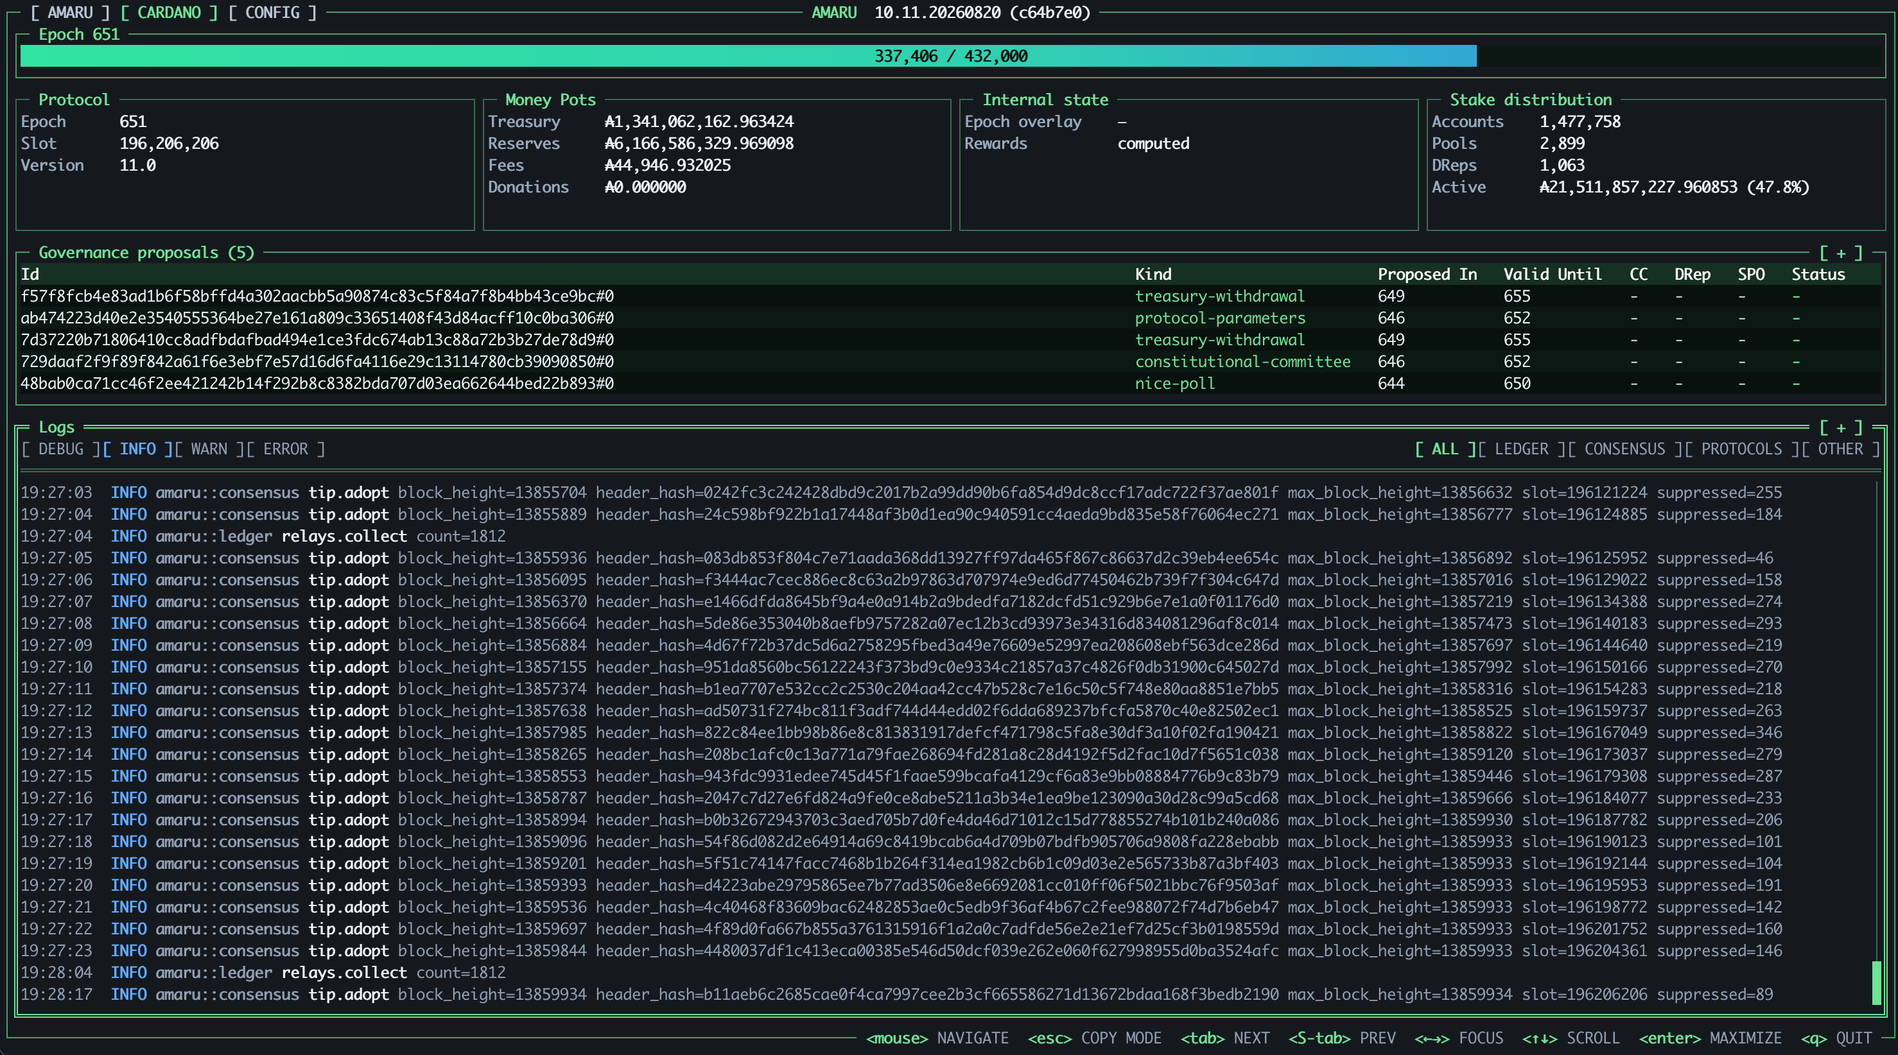
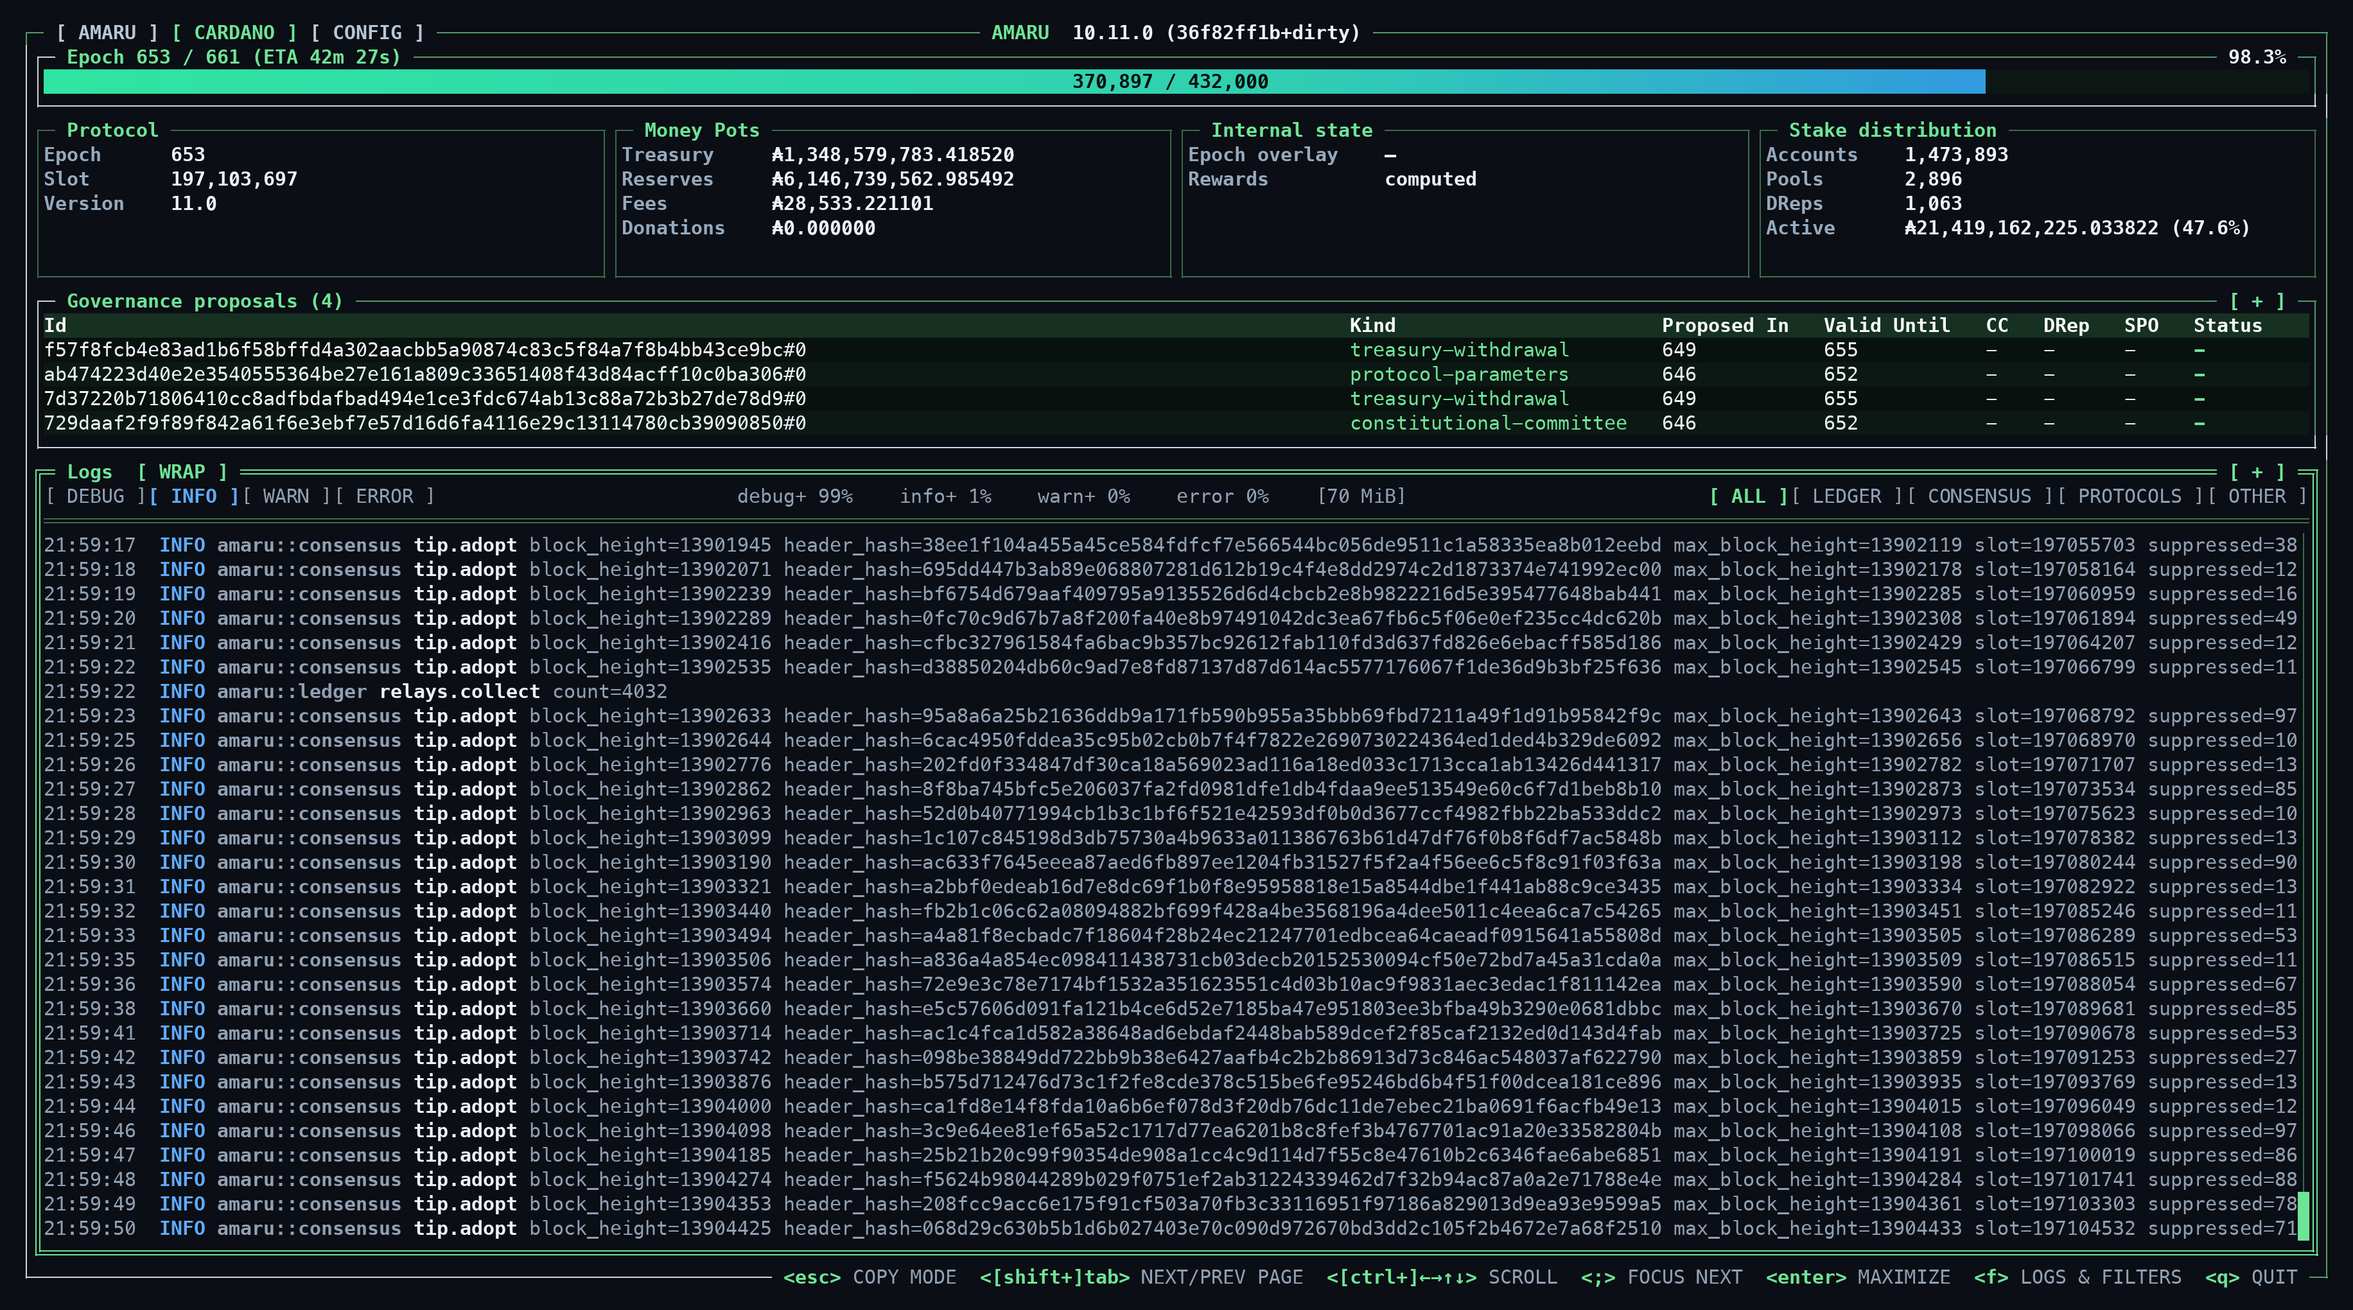
feat(docs): update tui docs
skip-changelog

Changed region(s): [[0.0, 0.0, 1.0, 0.9927], [0.5913, 0.1241, 0.6225, 0.1551]]

diff --git a/docs/user-guide/02-amaru-tui.md b/docs/user-guide/02-amaru-tui.md
@@ -5,81 +5,306 @@ sidebar_label: "The Amaru TUI"
 description: A tour of the Amaru node's embedded terminal dashboard.
 ---
 
-When using `amaru node run`, it opens an embedded terminal dashboard live in your shell. It's the quickest way to see whether the node is syncing, how it's performing, and what it's doing right now.
+`amaru node run` opens an embeded terminal dashboard. It shows important information about your node, such as sync progress, resource usage, connected peers, and logs.
 
-## Tabs
+## When the TUI runs
 
-The top bar switches between three views: **AMARU**, **CARDANO**, and **CONFIG**, described below.  
-The node's version and commit hash (e.g. `10.11.20260807 (493bffb)`) are always shown top-center.
+The dashboard starts by default when Amaru runs in an interactive terminal on Linux or macOS. It stays off when any of these hold:
 
-## AMARU tab
+- Flag `--tui-off` (`--no-tui`) is used
+- Environment variable `AMARU_TUI_OFF` is set to `true` 
+- JSON traces are enabled
+- Environment variable `TERM` is set to `dumb`
 
-Shown by default when the TUI opens: node-process health, networking, and consensus; sync progress, resource usage, peers, and logs.
+When the TUI is disabled, logs go to standard output. That mode is recommended when running with system or Docker.
 
-![Amaru Syncing_TUI](img/Amaru_Syncing_TUI.png)
-*Amaru TUI Syncing on Preprod*
+| Flag | Environment variable | Default | Purpose |
+|---|---|---|---|
+| `--tui-off` | `AMARU_TUI_OFF` | `false` | Disable the dashboard. |
+| `--tui-log-retention` | `AMARU_TUI_LOG_RETENTION` | `100MiB` | Memory the log pane may use. See [Log retention](#log-retention). |
+| | `AMARU_TUI_ALIASES` | none | Remap keys. See [Customizing keys](#customizing-keys). |
 
-### Sync progress
+## Startup
 
-While syncing, the top bar tracks progress through the current epoch: epoch number (307 / 308), ETA to the end of sync (2m56s), slots processed within the epoch (86,338 / 432,000), and overall sync percentage (99.6%).  
-When the sync is over the ETA and Percentage will disappear.
+Every time it starts, Amaru loads the stake distributions for the last two epochs from disk before it can follow the chain. The dashboard appears when loading finishes.
 
-![Amaru_Mainnet TUI](img/Amaru_Mainnet_TUI.png)
-*Amaru TUI Running on Mainnet*
+![Amaru TUI startup](img/Amaru_Splash_TUI.png)
 
-### Resource gauges
+## Layout
 
-Live gauges for **Memory**, **RSS**, **CPU**, **Disk Read**, and **Disk Write**, each with a percentage relative to a reference ceiling.  
-**Memory** is the amount allocated to the process, while **RSS** (Resident Set Size) is the portion of that actually resident in RAM, the number to watch if you're worried about the host running out of memory.
+The page tabs `[Amaru] [Cardano] [Config]` sit in the top-left corner of the frame. Click a tab, or press `Tab`/`Shift+Tab` to cycle through the pages.
+
+The center shows `AMARU` followed by the ndoe version and commit. For example,`10.11.20260807 (493bffb)`.
+
+The bottom-right corner lists the keys that work right now, written as `<key> ACTION`. The list changes with the mode. If you forget a key, look there.
+
+The Amaru and Cardano pages stack three things. The epoch progress bar is at the top, the page's panels are in middle, and the log pane fills the rest. The Config page gives the whole screen to its tables.
+
+### Epoch bar
+
+Once the node has a tip, a bar across the top tracks the current epoch in slots, for example `86,338 / 432,000`.
+
+While Amaru catches up, the title reads `Epoch 307 / 308 (ETA 2m 56s)`. The first number is the epoch your local node has reached, and the second is the network's current epoch. The ETA is an estimate of how lon the sync has left. Overall sync progress would appear on the right.
+
+Once Amaru reaches the tip, the title drops to just the epoch number, and the percentage disappears.
+
+### Focus and maximizing
+
+One panel has focus at a time. The focused panel has a heavier border, and the arrow keys scroll within it. Press `;` to move focus to the next panel, or click on a specific panel to focus it.
+
+Some panels can expand to the full screen. Press `Enter` on the focused panel, or click the `[+]` in its top-right corner to toggle full screen mode.
+
+## Amaru page
+
+This page is about the node process itself.
+
+![Amaru TUI syncing](img/Amaru_Syncing_TUI.png)
+*Syncing on Mainnet*
+
+### Resources
+
+The top row has five gauges.
+
+| Gauge | Shows | Percentage relative to |
+|---|---|---|
+| Memory | Memory allocated by the process | Total host memory |
+| RSS | Resident set size, the part of that memory currently in RAM | Total host memory |
+| CPU | Process CPU usage | 100% |
+| Disk Read | Read rate in KiB/s or MiB/s | All reads on the host |
+| Disk Write | Write rate | All writes on the host |
+
+### Node, Throughput, Local Tip, Chain quality
+
+
+| Card | Field | Meaning |
+|---|---|---|
+| Node | Network | The network the node joined, such as `mainnet`, `preprod` or `preview`. |
+| | Platform | OS and architecture. |
+| | PID | Process ID. |
+| | Uptime | Time since the TUI started. |
+| Throughput | Blocks, Txs | Blocks and transactions processed recently. |
+| | Blocks/s, Tx/s | Smoothed processing rate. |
+| Local Tip | Hash | First 12 characters of the tip block's hash. |
+| | Slot | Slot of the local tip. Reads `slot / target` when there's a sync target. |
+| | Height | Block height of the local tip. |
+| | Adopted | Time since the node last adopted a block. |
+| Chain quality | Chain Density | Observed block density as a share of the expected rate. |
+| | Chain Growth | Not implemented yet. Always shows `-`. |
+| | Rollback depth | Average length of recent rollbacks, in blocks. |
+| | Rollback freq. | How often rollbacks happened lately. |
 
 ### Peers
 
-One row per connected peer: connection **Dir**ection (inbound/outbound), peer address, **Duplex** (whether the connection carries traffic in both directions at once, rather than one-way), **RTT** (round-trip latency to the peer), and per-stage latency.  
-(see [openBlockPerf](https://developers.cardano.org/docs/operators/monitoring/monitoring-openblockperf/)) :  
-- **Observe** : Time until a relay node first hears about the new block header.
-- **Fetch** : Time while the relay node requests the block body from peers.  
-- **Sync** : Time until the block body download completes.
-- **Adopt** : Time until the local node validates and adopts the block.
+![Amaru TUI peers](img/Amaru_Mainnet_Peers_TUI.png)
 
-The `[ + ]` in the top-right lets you expand the panel to see all connected peers.  
-If a peer shows a red dot instead of a green one, it means it has not responded for some time and will soon be evicted.
+The panel title counts connections, for example `Peers (8+2 up / 5+1 dn)`. The `up` side counts peers we use as upstreams. The `dn` side counts peers that use us as their upstream. In each pair, the first number is connections carrying block diffusion and the muted `+N` is connections kept only for maintenance.
 
-![Amaru_Mainnet_Peers TUI](img/Amaru_Mainnet_Peers_TUI.png)
+Each row is one peer.
 
+| Column | Meaning |
+|---|---|
+| up | How we use this peer. `●` means diffusion, `○` maintenance, `-` unused. |
+| dn | How this peer uses us, with the same symbols. |
+| in/out | `in` if the peer dialled us and `out` if we dialled it. A trailing `+` marks a full-duplex connection, which both sides use at once. |
+| Peer | Socket address. A peer resolved from a bootstrap host name or SRV record shows that name in parentheses. |
+| ChainSync | Height of the latest header this peer sent, minus our adopted height. Positive means the peer is ahead. |
+| Adopted | Height of the tip this peer advertises, minus our adopted height. |
+| RTT | Last measured round-trip time. |
+| Score | Points for announcing new headers early. Faster upstreams score higher. |
+| Observe | Average time from slot start until this peer delivered the header. Blank while catching up, since old blocks have no meaningful slot start. |
+| Select | Average wait between accepting the header and requesting its body. |
+| Fetch | Average time to download the block body from this peer. |
+| Adopt | Average time this node took to validate and adopt the block. |
+| ≤1s, ≤3s, ≤5s | Share of recent live blocks whose body arrived within 1, 3 or 5 seconds of slot start. |
+
+Observe, Fetch and Adopt use the same stages as [openBlockPerf](https://developers.cardano.org/docs/operators/monitoring/monitoring-openblockperf/). Select is Amaru's own.
 
 ### Mempool
 
-Pending transaction count (**Txs**) and current **Occupancy**: how much of the mempool's size budget (in KiB) is filled with transactions waiting to be included in an upcoming block.
+Txs counts pending transactions. Occupancy shows how much of the mempool's size budget they use, in KiB, for example `12 / 8,192 KiB`.
 
-### Logs
+## Cardano page
 
-A live, filterable log tail. Filter by level (**DEBUG**, **INFO**, **WARN**, **ERROR**) and by component (**ALL**, **LEDGER**, **CONSENSUS**, **PROTOCOLS**, **OTHER**) using the toggles above the log pane.
+This page shows ledger state as Amaru sees it.
 
-## CARDANO tab
+![Amaru TUI Cardano page](img/Amaru_Cardano_TUI.png)
 
-Shows on-chain governance state, reward pots, stake distribution, and governance proposals in flight.
+| Card | Field | Meaning |
+|---|---|---|
+| Protocol | Epoch, Slot | Position of the local tip. |
+| | Version | Protocol version in force. |
+| Money Pots | Treasury, Reserves | Current balances in ADA. |
+| | Fees | Fees collected so far this epoch. |
+| | Donations | Treasury donations collected so far this epoch. |
+| Internal state | Epoch overlay | `✓` when the node holds state for the epoch in progress. |
+| | Rewards | `computed` once rewards for the next epoch boundary are ready, `not ready` before that. |
+| Stake distribution | Accounts, Pools, DReps | Size of the latest stake snapshot. |
+| | Active | Active stake, and its share of the maximum ADA supply. |
 
-![Amaru TUI Cardano tab](img/Amaru_Cardano_TUI.png)
+### Governance proposals
 
-For the time being, the view is purely informative; other elements could be added in the future.
+One row per proposal the ledger tracks.
 
-## CONFIG tab
+| Column | Meaning |
+|---|---|
+| Id | Proposal ID, made of the transaction ID and index. |
+| Kind | Action type, for example `treasury-withdrawal` or `protocol-parameters`. |
+| Proposed In | Epoch the proposal was submitted. |
+| Valid Until | Last epoch it can be ratified. |
+| CC, DRep, SPO | Whether that body currently approves it. Shows `yes` or `no`, or `-` when the body has no say or there's no result yet. |
+| Status | Where the proposal stands. |
 
-The full list of CLI flags, their matching `AMARU_*` environment variables, and their current value (see [Configuring the node](05-amaru-advanced-installation.md#3-configuring-the-node)).  
-We also see protocol parameters and network global parameters used by Amaru.
+## Config page
 
-![Amaru TUI Config tab](img/Amuru_Config_TUI.png)
+![Amaru TUI Config page](img/Amaru_Config_TUI.png)
 
-## Keybindings
+This page lists every option the node started with. Each row has the CLI flag, its `AMARU_*` environment variable and the value in effect. [Configuring the node](05-amaru-advanced-installation.md#3-configuring-the-node) explains what each option does.
 
-These apply across all three tabs:
+Below the options are the protocol parameters and network-wide constants Amaru is using.
 
-| Key | Action                                                                |
-|-----|-----------------------------------------------------------------------|
-| Mouse | Navigate between panels                                               |
-| `Esc` | Enter copy mode. On log pages, click a line then click another to mark a time range (a later click moves the nearer end; drag also works); `e` writes the currently visible lines in that range (or every visible line if nothing is selected) to a file in the working directory. On the Config page, copy mode still allows native text selection. |
-| `Tab` / `Shift+Tab` | Focus next / previous panel                                           |
-| `←` `→` | Move focus within a panel                                             |
-| `↑` `↓` | Scroll the focused panel                                              |
-| `Enter` | Maximize the focused panel                                            |
-| `q` | Quit – note: no confirmation prompt.                                  |
+## Logs
+
+The log pane appears on the Amaru and Cardano pages. New lines arrive at the bottom. Scroll up to read older ones, and scroll back down to follow new lines again.
+
+### Level and component
+
+The top row of the log pane has two sets of toggles; one to filter log levels, and one to filter component logs.
+
+The toggles on the left are `debug`, `info`, `warn` and `error`. Each shows that level and everything more severe. The component toggles on the right are `all`, `ledger`, `consensus`, `protocols` and `other`.
+
+### Filter, highlight and jump
+
+Press `f` to open the log menu, then pick a command.
+
+| Key | Action |
+|---|---|
+| `f` | Show only lines matching a regular expression. |
+| `h` | Highlight matching lines and keep the rest visible. |
+| `t` | Jump to a timestamp. Accepts `HH:MM`, `HH:MM:SS`, `YYYY-MM-DD` and `YYYY-MM-DD HH:MM[:SS]`. |
+| `w` | Turn line wrapping on or off. |
+| `Esc` | Close the menu. |
+
+`f`, `h` and `t` open a prompt at the bottom of the screen. It validates as you type and shows an error for a bad regex or timestamp. `Enter` applies the input and `Esc` cancels. An empty submission clears the filter or highlight. `Ctrl+U` clears the line. `Ctrl+W` deletes the word before the cursor.
+
+### Log title indicators
+
+The log pane's title shows what's active.
+
+| Indicator | Meaning |
+|---|---|
+| `[wrap]` | Line wrapping. Bright when on. Click it to toggle. |
+| `scrub` | The scrollbar has focus, so arrow keys move through history in large steps. |
+| `col N` | Scrolled sideways. Long lines start at column N. |
+| `sel N` | N lines selected in copy mode. |
+| `&pattern` | Active filter. |
+| `/pattern` | Active highlight. |
+
+### Log retention
+
+The pane holds logs in memory up to the `--tui-log-retention` limit, `100MiB` by default. Older lines get thinned by level:
+
+| Part of the buffer | Kept |
+|---|---|
+| Newest 70% | `debug` and above |
+| Next 10% | `info` and above |
+| Next 10% | `warn` and above |
+| Oldest 10% | `error` only |
+
+DEBUG lines vanishing as you scroll back is expected behaviour. The middle of the toggle row shows how full each part is, for example `debug+ 70%  info+ 10%  warn+ 10%  error 100%  [68.2 MiB]`. For complete logs, run with `--tui-off` and send output to a file or collector.
+
+## Copy mode and exporting logs
+
+Press `Esc` to enter copy mode. The title changes to `COPY MODE`, and borders, scrollbars and separators disappear.
+
+On the Amaru and Cardano pages, the TUI keeps the mouse so you can select log lines.
+
+1. Click a line to start a selection.
+2. Click another line to extend it to a time range. Each later click moves the closer end. Dragging works too.
+3. Press `e` to write the visible lines in that range to a plain-text file in the working directory. With nothing selected, `e` writes every visible line. The footer shows the file name.
+
+The export applies your current level, component and text filters.
+
+On the Config page, the TUI hands the mouse back to your terminal, so normal text selection and copy work there.
+
+`Esc` clears a selection. A second `Esc` leaves copy mode.
+
+## Quitting
+
+Press `q`, then confirm with `q` or `y`. Press `n` or `Esc` to cancel. The title shows `SHUTTING DOWN` until the node stops.
+
+## Keyboard and mouse reference
+
+### Normal mode
+
+| Key | Action |
+|---|---|
+| `Tab` / `Shift+Tab` | Next / previous page |
+| `;` | Focus the next panel |
+| `↑` `↓` | Scroll the focused panel one line |
+| `←` `→` | Scroll log lines sideways when wrap is off |
+| `Ctrl` + arrow | Scroll one scrollbar step |
+| `PgUp` / `PgDn` | Scroll one screen |
+| `Home` / `End` | Jump to the start or end. For logs, that's oldest or newest. |
+| `Enter` | Maximize or restore the focused panel |
+| `f` | Open the log menu |
+| `Esc` | Enter copy mode |
+| `q` | Quit, after confirmation |
+
+### Log menu, after `f`
+
+| Key | Action |
+|---|---|
+| `f` | Filter by regex |
+| `h` | Highlight by regex |
+| `t` | Jump to a time |
+| `w` | Toggle wrap |
+| `Esc` | Close the menu |
+
+### Copy mode
+
+| Key | Action |
+|---|---|
+| Click / drag | Select log lines |
+| `e` | Export the selected lines, or all visible lines, to a file |
+| Arrows, `PgUp`, `PgDn`, `Home`, `End` | Scroll, as in normal mode |
+| `f` | Open the log menu |
+| `Esc` | Clear the selection, then leave copy mode |
+| `q` | Quit, after confirmation |
+
+### Quit confirmation
+
+| Key | Action |
+|---|---|
+| `q` or `y` | Shut down |
+| `n` or `Esc` | Cancel |
+
+### Mouse
+
+| Action | Effect |
+|---|---|
+| Click a page tab | Switch page |
+| Click a panel | Focus it |
+| Click `[+]` / `[-]` | Maximize or restore the panel |
+| Click a level or component toggle | Change the log filter |
+| Scroll wheel | Scroll the panel under the pointer |
+| `Shift` + scroll wheel | Scroll log lines sideways |
+| Drag the log scrollbar | Move through log history |
+
+## Customizing keys
+
+Some shells and multiplexers use the same keybinds the TUI uses. Remap keys in the TUI with `AMARU_TUI_ALIASES`, a comma-separated list of `key=alias` pairs. For example:
+
+
+```sh
+AMARU_TUI_ALIASES="esc=~,ctrl+up=k,ctrl+down=j" amaru node run
+```
+
+An alias replaces the original key. After `esc=~`, `Esc` does nothing and `~` takes over its job.
+
+Write modifiers as `ctrl+` and `shift+`. Special keys are `esc`, `enter`, `tab`, `up`, `down`, `left`, `right`, `pageup`, `pagedown`, `home`, `end`, `backspace`, `delete`, `insert`, `space`, and `f1` to `f12`. Anything else is a single character.
+
+These controls accept an alias: `esc`, `enter`, `tab`, `shift+tab`, the four arrows with and without `ctrl+`, `pageup`, `pagedown`, `home`, `end`, `;`, `e`, `f`, `h`, `n`, `q`, `t`, `w` and `y`.
+
+If there  are mulitple control that is mapped to the same key, Amaru will not start and name the collisions.
+
+The footer shows your aliases. For page and scroll keys it shows `aliased` instead of listing each one.

diff --git a/docs/user-guide/05-amaru-advanced-installation.md b/docs/user-guide/05-amaru-advanced-installation.md
@@ -128,7 +128,7 @@ OTEL_METRIC_EXPORT_INTERVAL=1000
 
 You can get the full config list with the TUI under the config menu (press `ESC` on the Config page to enter copy mode and select values with the terminal):
 
-![Amuru_config_TUI.png](img/Amuru_Config_TUI.png)
+![Amaru TUI Config page](img/Amaru_Config_TUI.png)
 
 <details>
 <summary><strong>Here is the same config list in txt</strong></summary>
